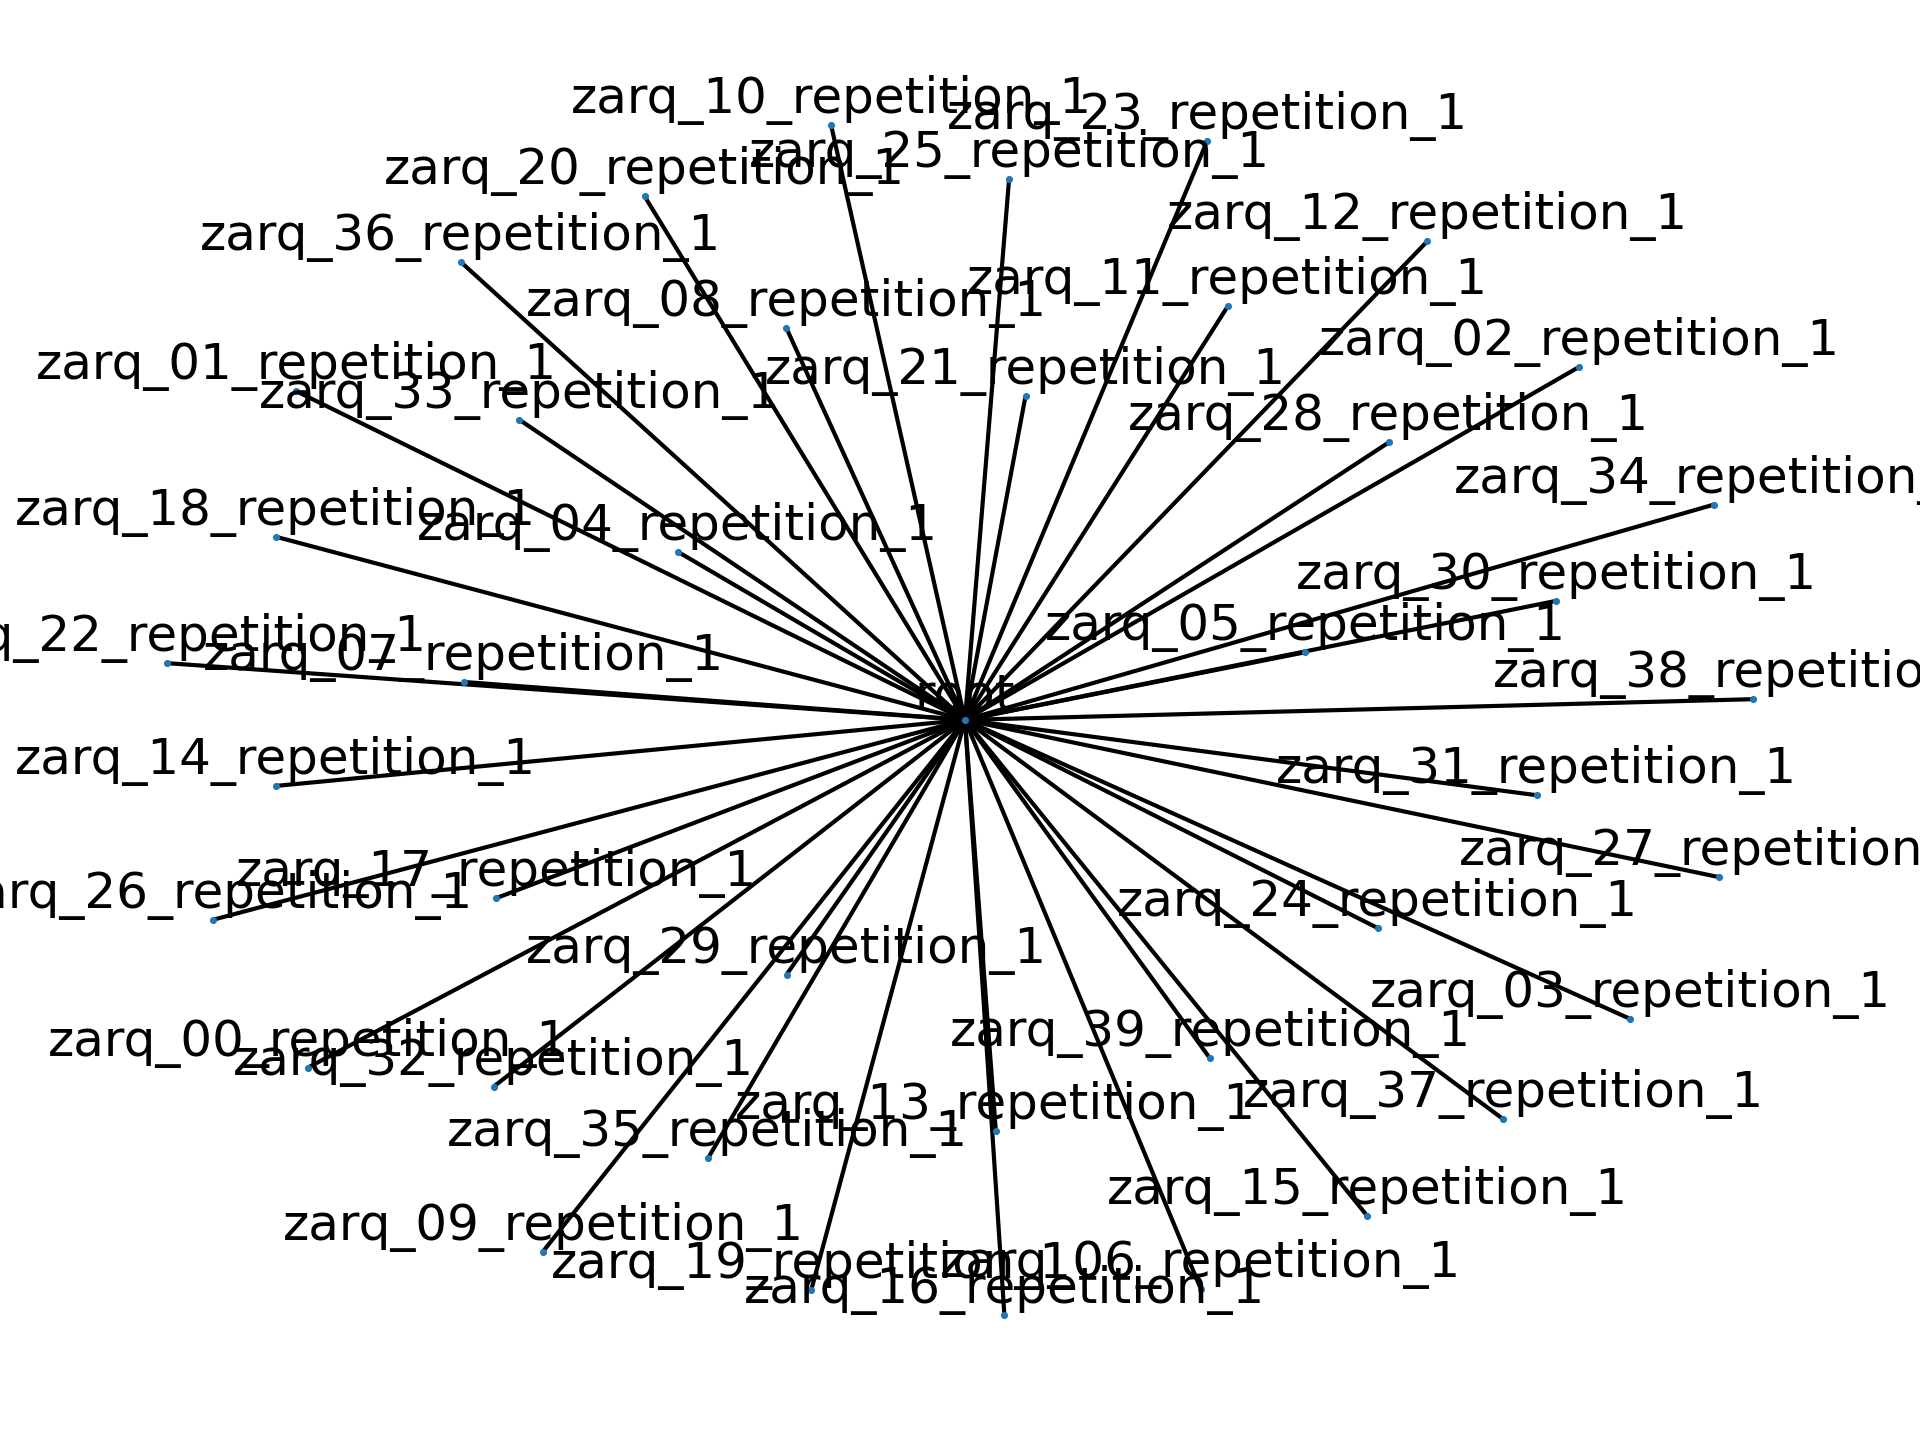
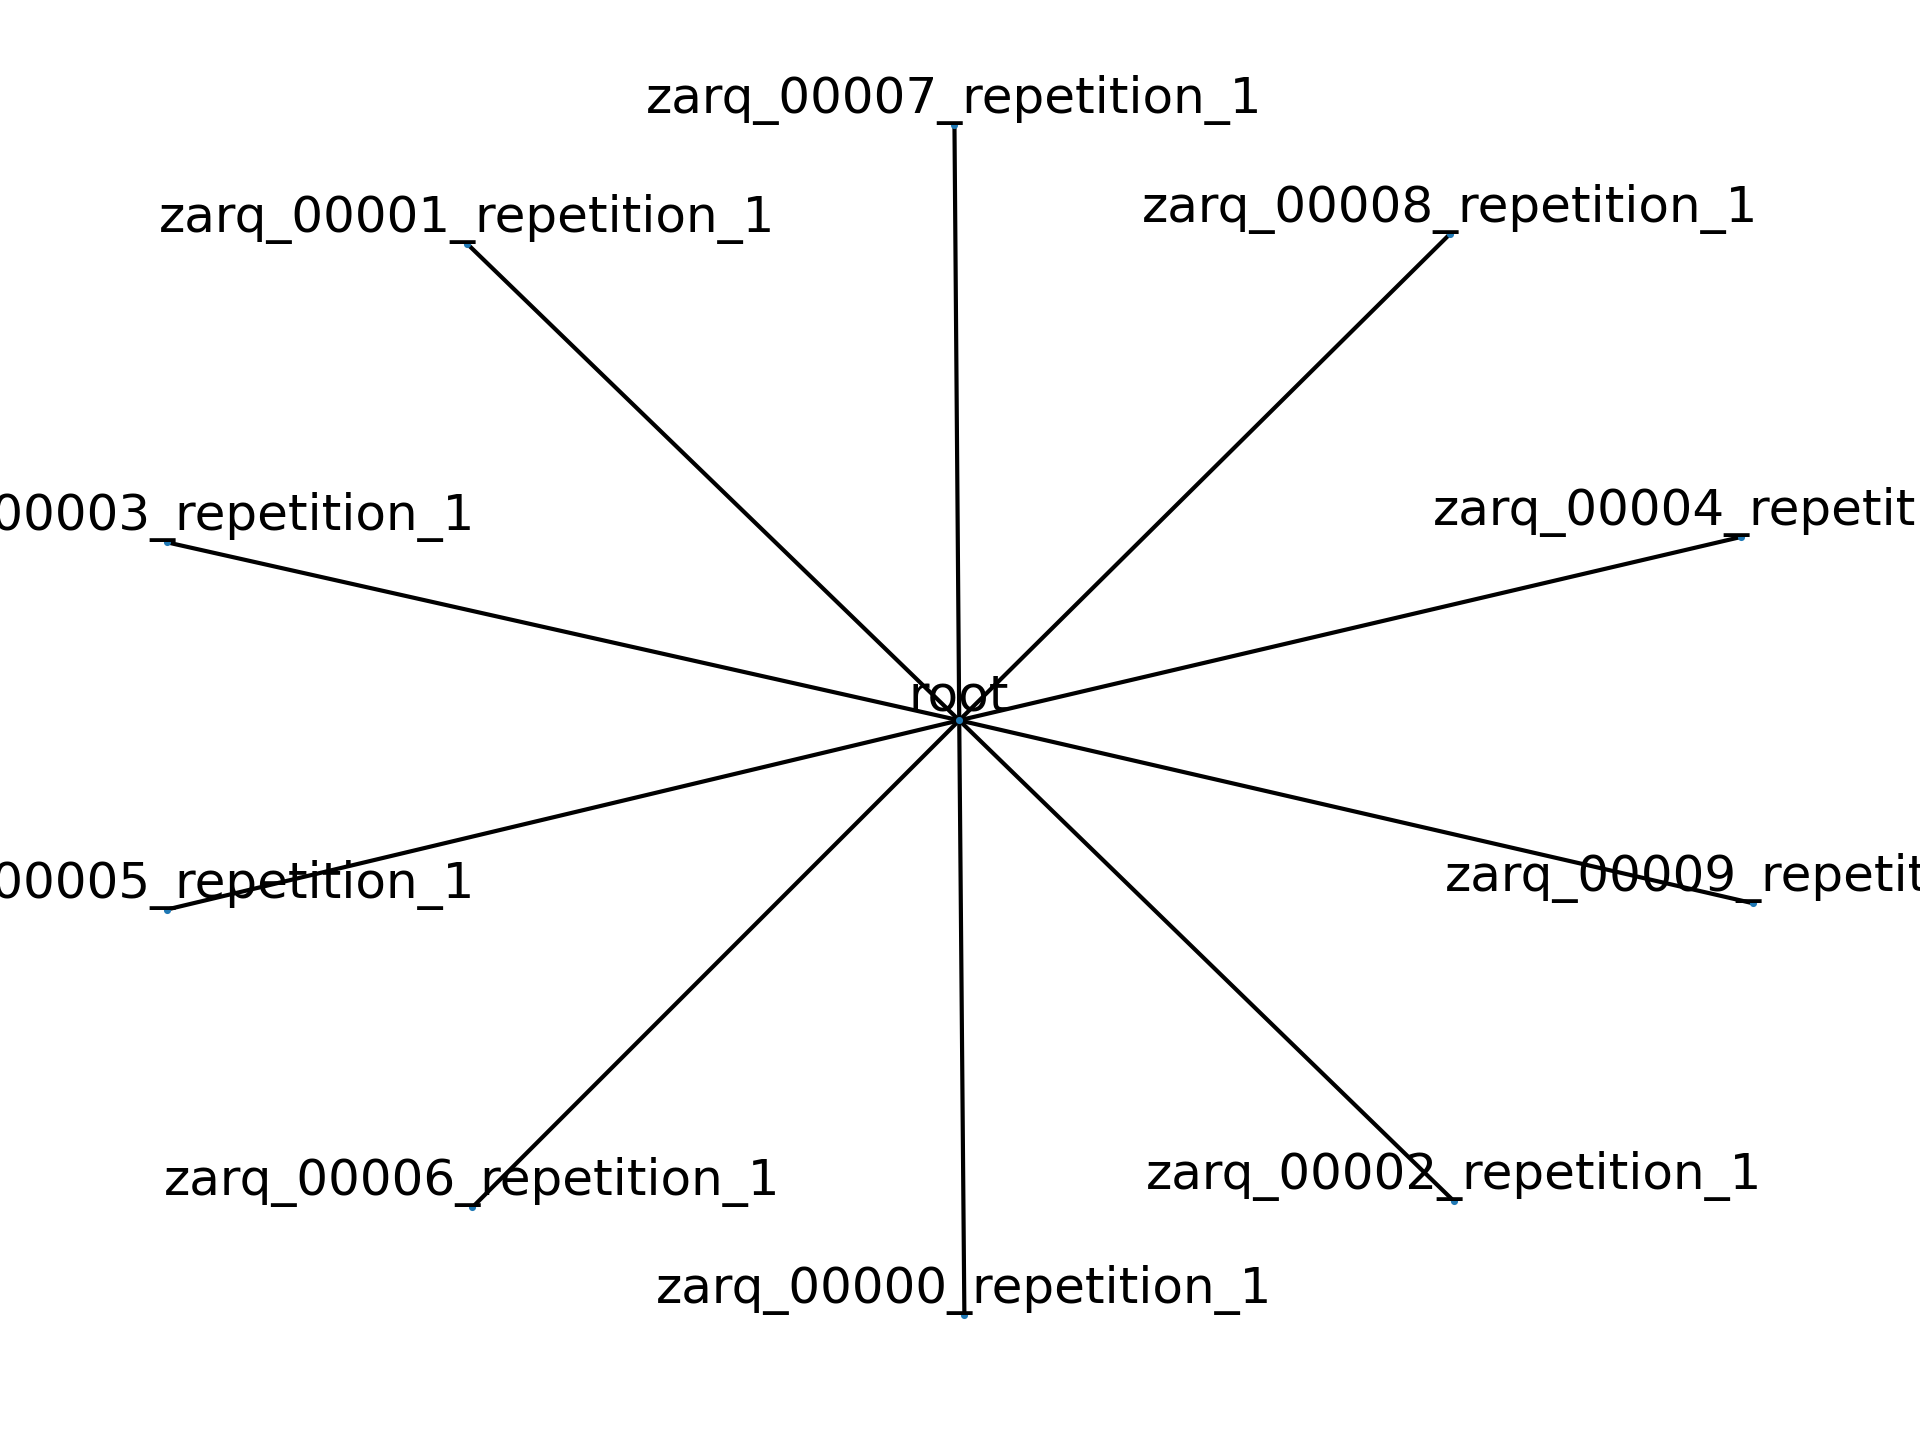
Version 2.1 - cdsv concluído

Changed region(s): [[0.0, 0.0312, 1.0, 0.9062], [0.0, 0.5, 0.0625, 0.5625], [0.5938, 0.3438, 0.625, 0.375]]

diff --git a/z22_functions.py b/z22_functions.py
@@ -168,14 +168,14 @@ def arquivos_sinteticos(db_in,repetition,num_arquivos,df_feature,colunas_arquivo
 
             print('')
             for z in vector:
-                print(colunas[z])
+                #print(colunas[z])
                 zarq.append(colunas[z])
             print('')
 
             print('Layout')
             print(df_feature[zarq].head(3))
 
-            l = str(i).zfill(2)
+            l = str(i).zfill(5)
             #print(l)
             nome_arquivo = str(db_in) + 'zarq_' + str(l)+'_repetition_'+ str(repetition) + '.csv'
 
@@ -238,7 +238,7 @@ def arquivos_sinteticos(db_in,repetition,num_arquivos,df_feature,colunas_arquivo
             #print('Layout')
             #print(df_feature[zarq].head(3))
 
-            l = str(i).zfill(2)
+            l = str(i).zfill(5)
             #print(l)
             nome_arquivo = str(db_in) + 'zarq_' + str(l)+'_repetition_'+ str(repetition) + '.csv'
             #print(nome_arquivo)

diff --git a/z21_main.py b/z21_main.py
@@ -91,7 +91,7 @@ print(''.center(81, '#'))
 
 z22.apaga_arquivo_sintetico(db_in)
 
-num_arquivos = 40 # quantidade de arquivos
+num_arquivos = 10 # quantidade de arquivos
 colunas_arquivos = 145  # quantidade de colunas de saída
 coluna_molecula = 'molecula'
 coluna_alvo = 'IC50'
@@ -147,7 +147,7 @@ path = db_in
 arr = os.listdir(path)
 
 lista = [arq for arq in arr if (arq.startswith("zarq_"))]
-lista.sort(reverse=False)
+#lista.sort(reverse=False)
 
 print('')
 
@@ -264,12 +264,12 @@ for zarq_i in lista:
 
     #print('')
     for i in ulist:
-        #print(i[0].split('.')[0],'|',i[1],'|',"{:.2f}".format(float(i[2])))
+        print(i[0].split('.')[0],'|',i[1],'|',"{:.2f}".format(float(i[2])))
         lista_mean.append(i)
 
         graph.add_weighted_edges_from([(i[0].split('.')[0],i[1],i[2])])
 
-    print('')
+    #print('')
     #print(''.center(80, '*'))
 
 print('')
